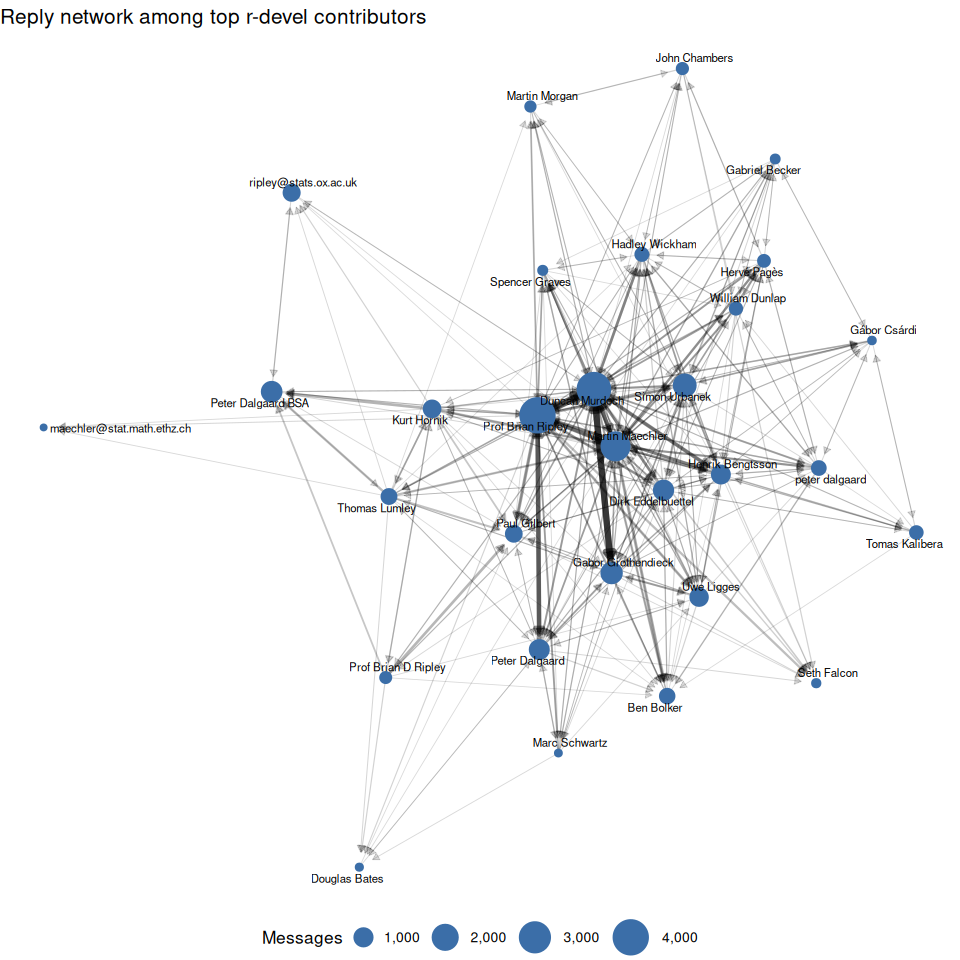
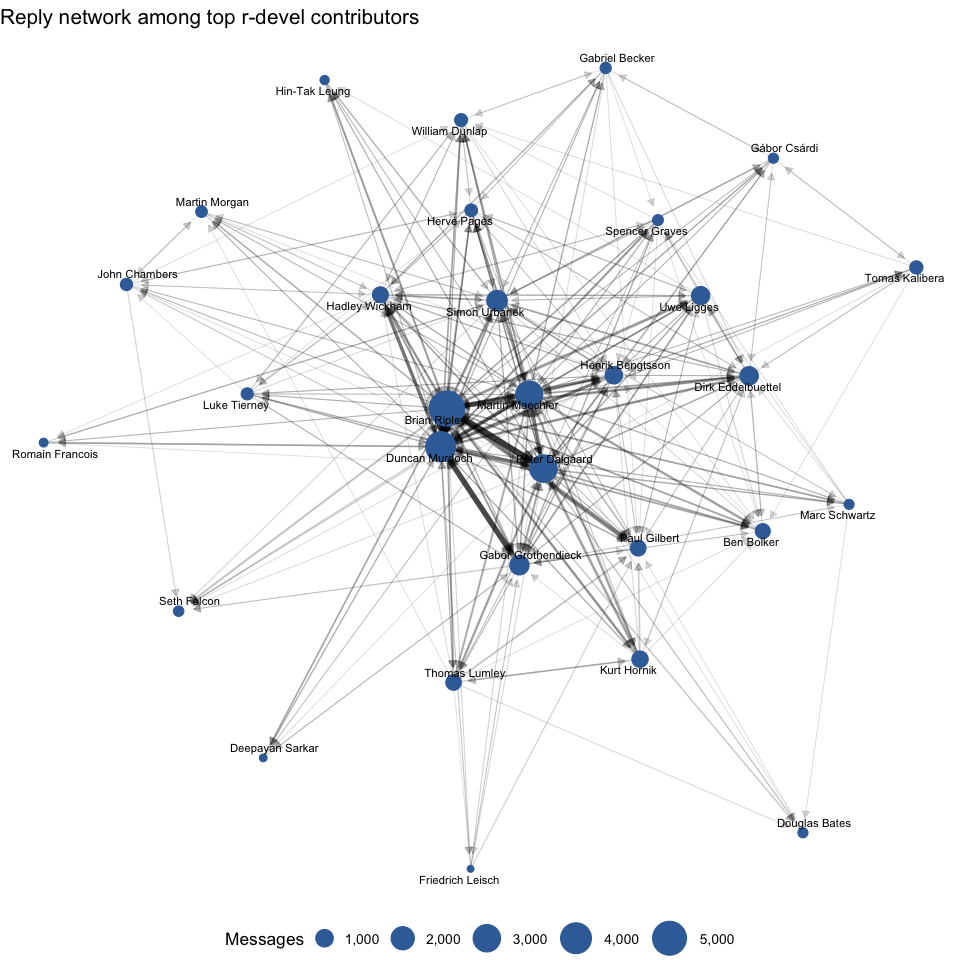
docs: re-render demo analysis with updated network graph

diff --git a/analysis/demo-analysis.md b/analysis/demo-analysis.md
@@ -34,6 +34,23 @@ theme_set(
       plot.title.position = "plot"
     )
 )
+
+# Load aliases for name resolution
+resolve_aliases <- function(df) {
+  aliases_file <- "../aliases.json"
+  if (!file.exists(aliases_file)) return(df)
+  alias_data <- jsonlite::fromJSON(aliases_file)
+  lookup <- data.frame(
+    from_email_hash = unlist(alias_data$aliases$email_hashes),
+    canonical_name = rep(alias_data$aliases$canonical_name,
+                         lengths(alias_data$aliases$email_hashes)),
+    stringsAsFactors = FALSE
+  )
+  df |>
+    left_join(lookup, by = "from_email_hash") |>
+    mutate(from_name = ifelse(is.na(canonical_name), from_name, canonical_name)) |>
+    select(-canonical_name)
+}
 ```
 
 The helper provides four main functions:
@@ -169,23 +186,20 @@ Figure 1
 
 ``` r
 r_devel <- rml_read("r-devel",
-  col_select = c("from_name", "date", "subject"))
+  col_select = c("from_name", "from_email_hash", "date", "subject")) |>
+  resolve_aliases()
 
 recent <- r_devel[r_devel$date >= as.POSIXct(Sys.Date() - 365), ]
 head(sort(table(recent$from_name), decreasing = TRUE), 10)
 ```
 
 
-                     Duncan Murdoch                 Martin Maechler 
-                                 38                              33 
-                  Dirk Eddelbuettel                     Ivan Krylov 
-                                 29                              28 
-                        Kurt Hornik                    Mikael Jagan 
-                                 18                              18 
-                    Michael Chirico                      Ben Bolker 
-                                 17                              16 
-                   Henrik Bengtsson Suharto Anggono Suharto Anggono 
-                                 15                              15 
+       Duncan Murdoch   Martin Maechler Dirk Eddelbuettel       Ivan Krylov 
+                   38                33                29                28 
+          Kurt Hornik      Mikael Jagan   Michael Chirico        Ben Bolker 
+                   18                18                17                16 
+     Henrik Bengtsson    Peter Dalgaard 
+                   15                15 
 
 ## Reply network on r-devel
 
@@ -197,7 +211,8 @@ library(igraph)
 library(ggraph)
 
 r_devel <- rml_read("r-devel",
-  col_select = c("message_id", "from_name", "in_reply_to"))
+  col_select = c("message_id", "from_name", "from_email_hash", "in_reply_to")) |>
+  resolve_aliases()
 
 # Build edges: replier -> original author
 author_lookup <- r_devel |> select(message_id, from_name)
